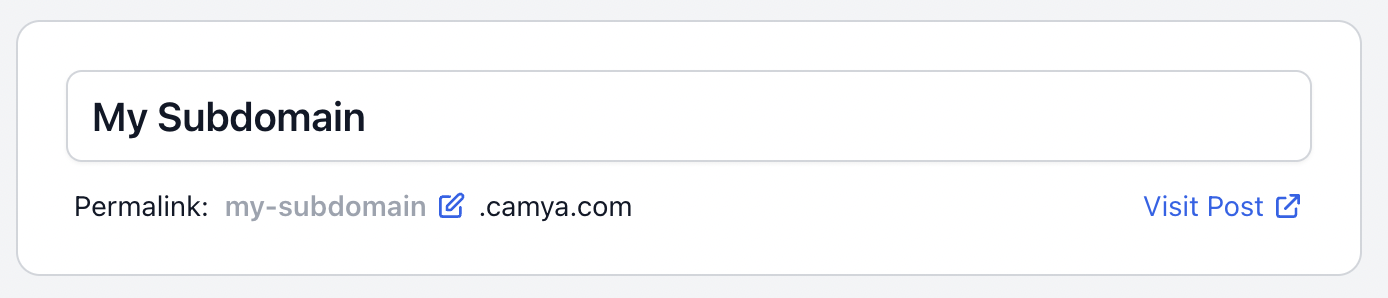
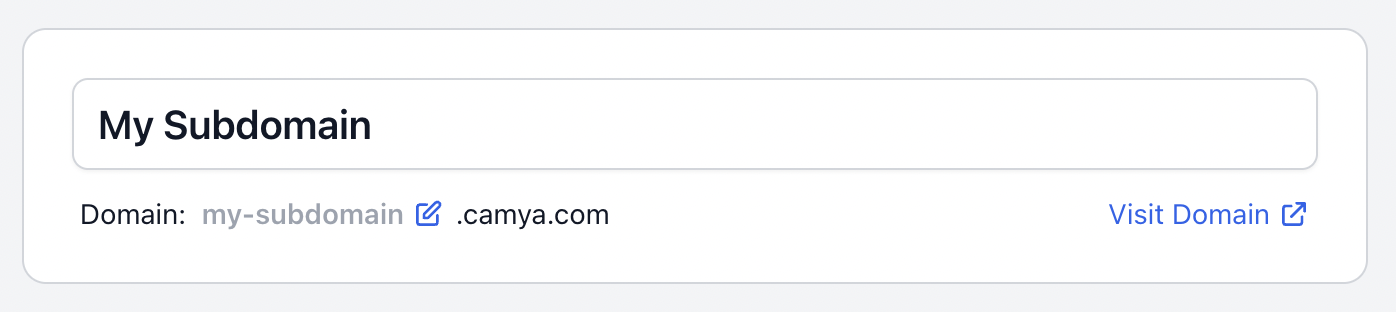
Optimized subdomain documentation

diff --git a/README.md b/README.md
@@ -394,9 +394,11 @@ It is important to add a `urlVisitLinkRoute` closure to create a correct visit l
     fieldSlug: 'subdomain',
     urlPath: '',
     urlHostVisible: false,
+    urlVisitLinkLabel: 'Visit Domain',
     urlVisitLinkRoute: fn (?Model $record) => $record?->slug
         ? 'https://'.$record->slug.'.camya.com'
         : null,
+    slugLabel: 'Domain:',
     slugLabelPostfix: '.camya.com',
 ),
 ```